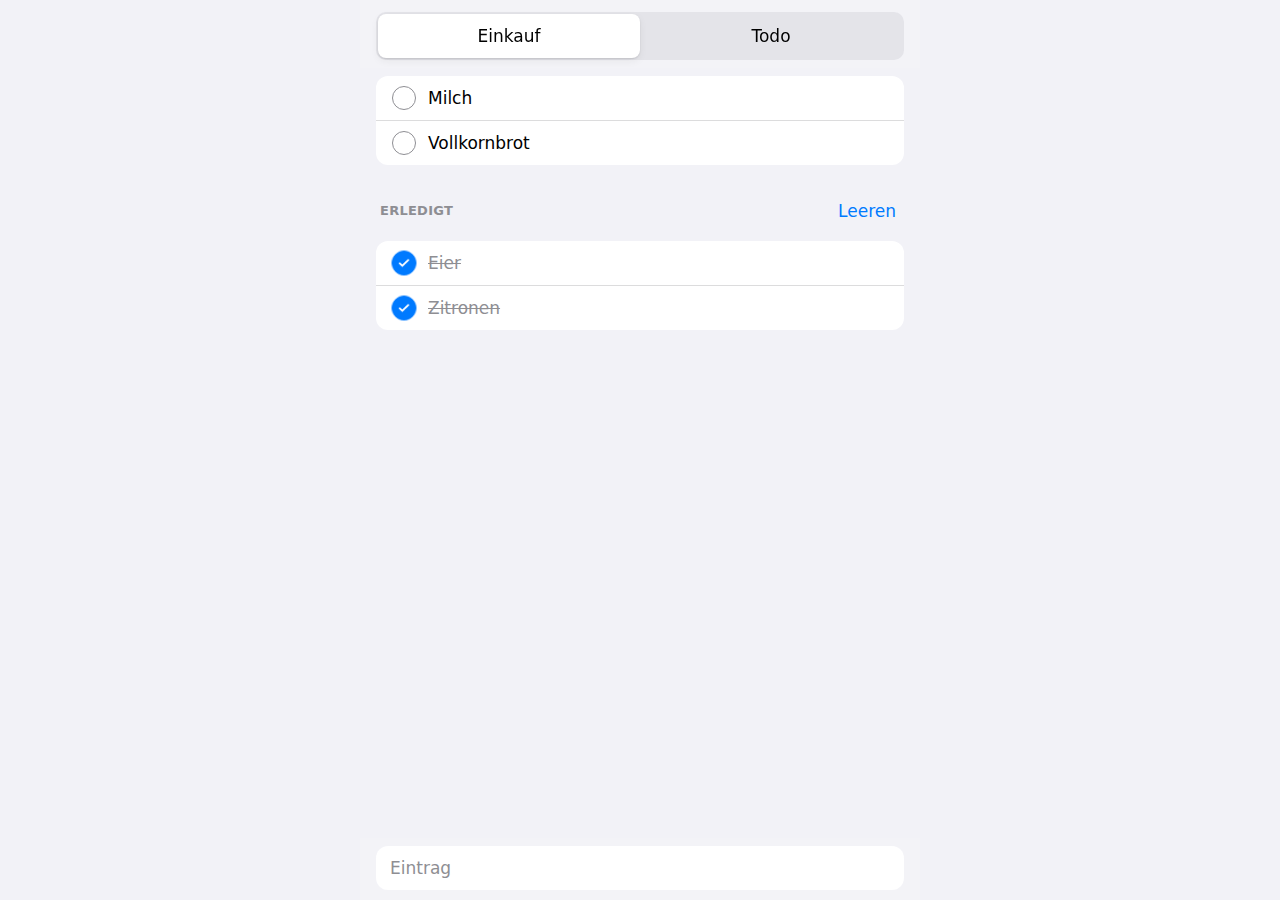
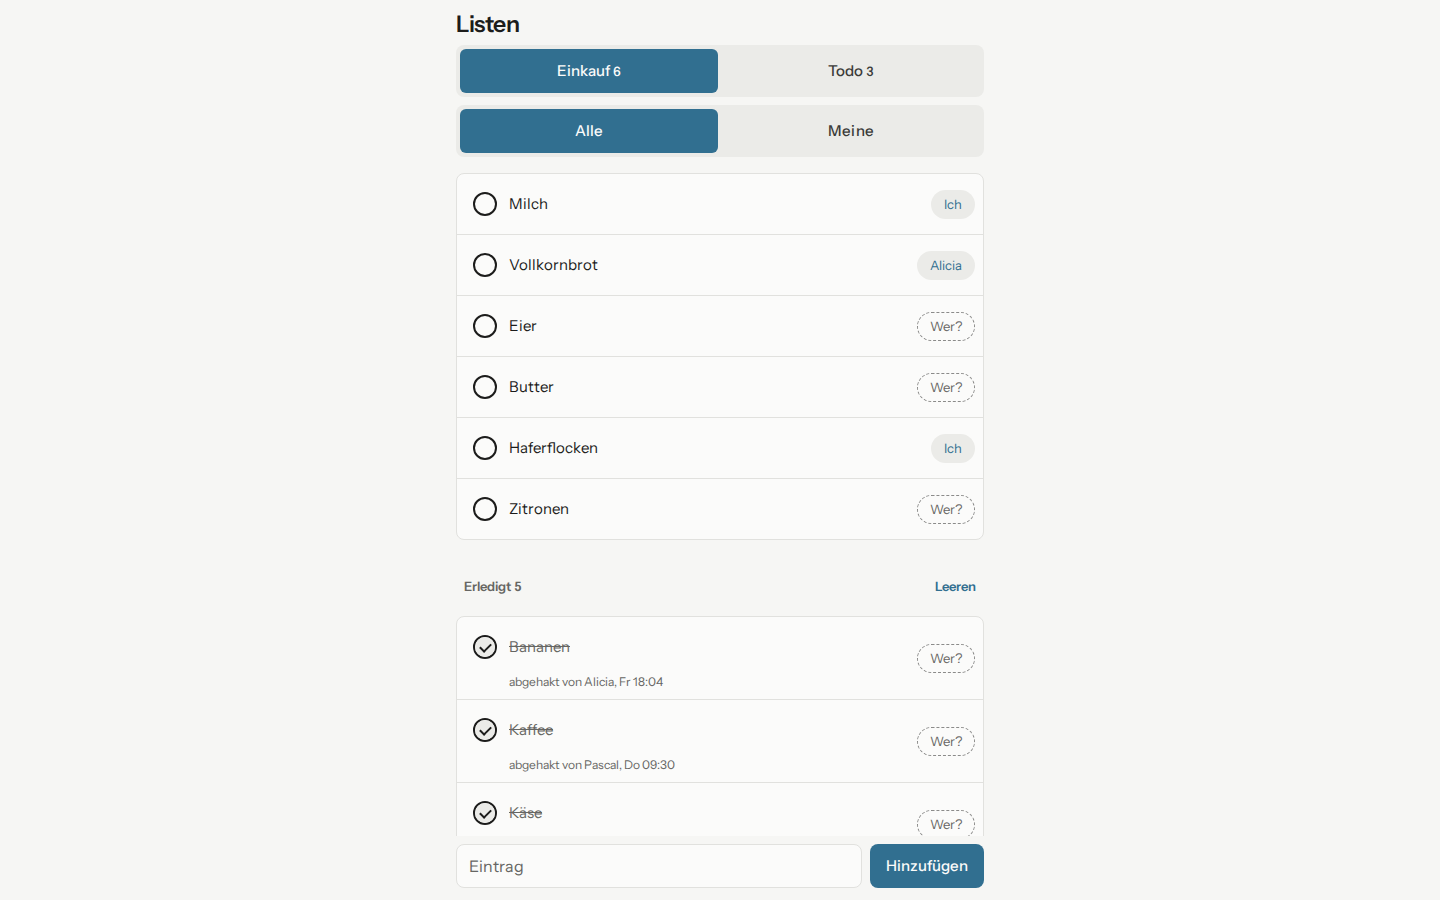
docs(lists): new pictures, the explanation of chips and who ticked, and the live copy check

diff --git a/frontend/tests/frame/lists-shots.test.tsx b/frontend/tests/frame/lists-shots.test.tsx
@@ -19,6 +19,8 @@ const SEED: Record<string, Seed[]> = {
     { text: "Bananen", done: true, ticked_by: "Alicia", ticked_at: "2026-10-23T16:04:00Z" },
     { text: "Kaffee", done: true, ticked_by: "Pascal", ticked_at: "2026-10-22T07:30:00Z" },
     { text: "Käse", done: true, ticked_at: "2026-10-21T19:10:00Z" },
+    { text: "Tee", done: true, ticked_by: "Alicia", ticked_at: "2026-10-20T12:45:00Z" },
+    { text: "Nudeln", done: true, ticked_by: "Pascal", ticked_at: "2026-10-19T18:20:00Z" },
   ],
   Todo: [
     { text: "Steuer abgeben", done: false, assignee: "[[Pascal]]" },
@@ -35,8 +37,8 @@ interface Look {
   dark?: boolean;
   touch?: boolean;
   reduced?: boolean;
-  /** What the picture shows past the first draw: a list switched, a menu open, a field focused. */
-  arrange?: () => void;
+  /** What the picture shows past the first draw: a list switched, a menu open, a field focused, a list scrolled. */
+  arrange?: (frame: HTMLElement) => void;
 }
 
 /** One picture: the app drawn as the look says, saved as `name`, its width checked. */
@@ -60,14 +62,29 @@ async function picture(name: string, look: Look): Promise<void> {
     reducedMotion: look.reduced ? "reduce" : "no-preference",
   });
   if (look.dark) document.documentElement.setAttribute("data-theme", "dark");
-  const { container, unmount } = render(<ListsApp />);
+  // The app scrolls inside a box the size of the screen, so the sticky bars stick to
+  // the picture's edges and the picture is the screen, not the whole list.
+  const { container, unmount } = render(
+    <div
+      style={{
+        position: "relative",
+        width: look.size.width,
+        height: look.size.height,
+        overflow: "auto",
+      }}
+    >
+      <ListsApp />
+    </div>,
+  );
+  const frame = container.firstElementChild as HTMLElement;
   try {
     await screen.findByRole("checkbox", { name: "Milch" });
-    look.arrange?.();
+    look.arrange?.(frame);
     // The lines and the menu arrive on a transition, so the picture waits for the end state.
     await Promise.all(document.getAnimations().map((animation) => animation.finished));
     await document.fonts.ready;
-    expect(await shot(container, name)).toBe(look.size.width);
+    expect(await shot(frame, name)).toBe(look.size.width);
+    expect(frame.getBoundingClientRect().height).toBe(look.size.height);
   } finally {
     unmount();
     document.documentElement.removeAttribute("data-theme");
@@ -95,9 +112,15 @@ const meine = {
   arrange: () => fireEvent.click(screen.getByRole("button", { name: "Meine" })),
 };
 const menu = { ...alle, arrange: () => fireEvent.click(chipOf("Eier")) };
+// Erledigt unfolds to all five, and the list is scrolled so its heading sits under the top bar.
 const done = {
   ...alle,
-  arrange: () => fireEvent.click(screen.getByRole("button", { name: /^Erledigt/ })),
+  arrange: (frame: HTMLElement) => {
+    fireEvent.click(screen.getByRole("button", { name: "Erledigt 5" }));
+    const heading = frame.querySelector<HTMLElement>(".done .group-head") as HTMLElement;
+    const bar = frame.querySelector<HTMLElement>(".top") as HTMLElement;
+    frame.scrollTop = heading.offsetTop - bar.offsetHeight;
+  },
 };
 const composer = {
   size: { width: 390, height: 500 },

diff --git a/frontend/src/styles/lists.css b/frontend/src/styles/lists.css
@@ -61,7 +61,7 @@ button:not(.words):active:not(:disabled) {
   display: grid;
   gap: var(--k-space-8);
   padding: calc(var(--k-space-12) + env(safe-area-inset-top)) var(--k-space-16) var(--k-space-8);
-  background: color-mix(in srgb, var(--k-bg) 88%, transparent);
+  background: var(--k-bg);
 }
 
 .top h1 {
@@ -395,7 +395,7 @@ button:not(.words):active:not(:disabled) {
   flex-direction: column;
   gap: var(--k-space-8);
   padding: var(--k-space-8) var(--k-space-16) calc(var(--k-space-12) + env(safe-area-inset-bottom));
-  background: color-mix(in srgb, var(--k-bg) 88%, transparent);
+  background: var(--k-bg);
 }
 
 .chips {

diff --git a/backend/tests/test_live_copy_share.py b/backend/tests/test_live_copy_share.py
@@ -1,0 +1,180 @@
+"""The live copy proof (#810 A11): what each list write does to every real list.
+
+Skipped unless `KASTEN_LIVE_COPY` (a read-only copy of the vault) and
+`KASTEN_LIVE_OUT` (a directory to write into) are both set. The lists are copied
+into a vault of this test's own, so the copy is never written. Every write runs on
+a fresh copy of its note, and each list's results land in one JSON file, so main
+and the branch can be compared with `diff -r`.
+"""
+
+import contextlib
+import itertools
+import json
+import os
+import re
+import shutil
+from collections.abc import Awaitable, Callable
+from datetime import date
+from pathlib import Path
+
+import pytest
+
+from kasten_backend import share
+from kasten_backend.config import Settings
+
+COPY = os.environ.get("KASTEN_LIVE_COPY", "")
+OUT = os.environ.get("KASTEN_LIVE_OUT", "")
+
+PEOPLE = {"pascal@example.test": "Pascal", "alicia@example.test": "Alicia"}
+TODAY = date.today().isoformat()
+COUNT = itertools.count()
+
+Step = Callable[[Settings, str], Awaitable[object]]
+
+
+def settings_for(root: Path) -> Settings:
+    """Settings for a vault at `root`, with the people when the setting exists."""
+    if "share_people" in Settings.model_fields:
+        return Settings(vault_path=root, share_people=PEOPLE)
+    return Settings(vault_path=root)
+
+
+def fresh(base: Path, name: str, raw: bytes) -> Settings:
+    """A vault of its own holding one list's note, exactly as read."""
+    root = base / f"case-{next(COUNT)}"
+    (root / "05 Shared").mkdir(parents=True)
+    (root / "05 Shared" / f"{name}.md").write_bytes(raw)
+    return settings_for(root)
+
+
+def note_text(settings: Settings, name: str) -> str:
+    """The note's text as it stands in the vault."""
+    return (settings.vault_path / settings.share_folder / f"{name}.md").read_bytes().decode("utf-8")
+
+
+def normal(text: str) -> str:
+    """The note with today's date, the kt id and the save time fixed, so two runs compare."""
+    text = text.replace(TODAY, "DATE")
+    text = re.sub(r"kt-[0-9a-f]{6}", "kt-xxxxxx", text)
+    return re.sub(r"^modified: [^\r\n]*", "modified: TIME", text, flags=re.MULTILINE)
+
+
+async def sha_of(settings: Settings, name: str) -> str:
+    """The digest of the list as the vault holds it now."""
+    current = await share.read(settings, name)
+    assert current is not None
+    assert current.sha is not None
+    return current.sha
+
+
+def tick(line: int, done: bool) -> Step:
+    """Tick or untick one line."""
+
+    async def step(settings: Settings, name: str) -> object:
+        return await share.tick(settings, name, line, done, await sha_of(settings, name))
+
+    return step
+
+
+def tick_all() -> Step:
+    """Tick every open item, one at a time, leaving the ones kasten refuses open."""
+
+    async def step(settings: Settings, name: str) -> object:
+        for item in share.items(note_text(settings, name)):
+            if not item.done:
+                with contextlib.suppress(share.TickInKastenError):
+                    await share.tick(settings, name, item.line, True, await sha_of(settings, name))
+        return None
+
+    return step
+
+
+def assign(line: int, who: str | None) -> Step:
+    """Assign one line to a person, or clear it with None."""
+
+    async def step(settings: Settings, name: str) -> object:
+        return await share.assign(settings, name, line, who, await sha_of(settings, name))
+
+    return step
+
+
+def add(text: str) -> Step:
+    """Append one item."""
+
+    async def step(settings: Settings, name: str) -> object:
+        return await share.add(settings, name, text, await sha_of(settings, name))
+
+    return step
+
+
+def clear() -> Step:
+    """Remove the ticked items, Leeren."""
+
+    async def step(settings: Settings, name: str) -> object:
+        return await share.clear(settings, name, await sha_of(settings, name))
+
+    return step
+
+
+async def outcome(base: Path, name: str, raw: bytes, *steps: Step) -> object:
+    """The note after the steps, run on a fresh copy, or the refusal a tick met."""
+    settings = fresh(base, name, raw)
+    try:
+        for step in steps:
+            await step(settings, name)
+    except share.TickInKastenError as error:
+        return {"refused": str(error)}
+    return normal(note_text(settings, name))
+
+
+@pytest.mark.skipif(not (COPY and OUT), reason="KASTEN_LIVE_COPY and KASTEN_LIVE_OUT are not set")
+async def test_live_copy_every_list_write(tmp_path: Path) -> None:
+    shared = tmp_path / "vault" / "05 Shared"
+    shared.mkdir(parents=True)
+    for note in sorted((Path(COPY) / "05 Shared").iterdir()):
+        if note.is_file() and note.suffix == ".md":
+            shutil.copy2(note, shared / note.name)
+
+    settings = settings_for(tmp_path / "vault")
+    out = Path(OUT)
+    base = tmp_path / "cases"
+    has_assign = hasattr(share, "assign")
+
+    for name in share.names(settings):
+        raw = (shared / f"{name}.md").read_bytes()
+        text = raw.decode("utf-8")
+        items = share.items(text)
+        plan: dict[str, list[Step]] = {
+            "add Testeintrag": [add("Testeintrag")],
+            "clear after every item ticked": [tick_all(), clear()],
+        }
+        for item in items:
+            label = f"L{item.line}"
+            plan[f"{label} tick"] = [tick(item.line, True)]
+            plan[f"{label} tick untick"] = [tick(item.line, True), tick(item.line, False)]
+            if has_assign:
+                plan[f"{label} assign Pascal"] = [assign(item.line, "Pascal")]
+                plan[f"{label} assign Alicia"] = [assign(item.line, "Alicia")]
+                plan[f"{label} assign Pascal then Alicia"] = [
+                    assign(item.line, "Pascal"),
+                    assign(item.line, "Alicia"),
+                ]
+                plan[f"{label} assign Pascal then None"] = [
+                    assign(item.line, "Pascal"),
+                    assign(item.line, None),
+                ]
+
+        cases: dict[str, object] = {}
+        for label, steps in plan.items():
+            cases[label] = await outcome(base, name, raw, *steps)
+        record = {
+            "lines": len(text.split("\n")),
+            "open": sum(not item.done for item in items),
+            "done": sum(item.done for item in items),
+            "items": [item.model_dump() for item in items],
+            "cases": cases,
+        }
+        (out / f"{name}.json").write_text(
+            json.dumps(record, ensure_ascii=False, indent=1, sort_keys=True) + "\n",
+            encoding="utf-8",
+        )

diff --git a/docs/explanation/shared-lists.md b/docs/explanation/shared-lists.md
@@ -1,7 +1,7 @@
 ---
 type: Explanation
 title: Shared lists
-description: Why the shared shopping and todo lists are plain lines in two vault notes, why a second gate and a /share prefix stand in front of them rather than a second user, what the second person can reach, and how a conflict, a live update, an offline change and Clear behave.
+description: Why the shared shopping and todo lists are plain lines in two vault notes, how an item is given to a person and who ticked it, why a second gate and a /share prefix stand in front of them rather than a second user, what the second person can reach, and how a conflict, a live update, an offline change, Alle and Meine, the look and Clear behave.
 tags: [share, lists, security, todo]
 status: stable
 ---
@@ -37,7 +37,62 @@ The app shows an item's words only. The fields kasten adds, such as the
 recurrence `🔁`, the waiting `👤` and the dates, and a block id at the end of
 the line are left out of the words. An item's assignee, the `👤 [[name]]` on
 its line, comes through the share routes as the `assignee` field of each item.
-The app does not draw it yet.
+
+The app draws it as a chip at the right of the row. The chip reads `Wer?` when
+nobody is set, `Ich` when the item is for you, and the name otherwise. A tap
+opens a small menu of the people, then Niemand. A pick writes `👤 [[Name]]` on
+the line, and Niemand takes the `👤` off. The chip shows the pick at once, and a
+refused pick shows the server's words. The line names the person by a link to
+their note, not by a bare name, so [the person card](/explanation/people-in-the-vault.md)
+lists the item the same way it lists any todo that links them.
+
+## Who ticked
+
+A done line names nobody. The line stays the todo line that the board and
+Obsidian read, with no extra field for a person. The history records each save
+instead. A write through the share routes names its person there: the gate sends
+the signed-in address as `X-Auth-Request-Email`,
+[`KASTEN_SHARE_PEOPLE`](/reference/configuration.md) maps it to a name, and the
+save is recorded under `share:<name>`. When the server lists a done item, it reads
+`jj evolog` for the latest change that ticked that line, and takes the writer and
+the commit time from it. The app shows what it is given, so a tick by Alicia reads
+`abgehakt von Alicia, Mo 18:04`.
+
+Two cases show less. A tick made in kasten has a time but no name, so the line
+reads `abgehakt Mo 18:04`. A write with no mapped address is recorded as
+`share`, and shows the same way, with no name. The history read never writes to
+the repository. If it fails, or the repository is missing, the item keeps its
+tick and the line under it stays blank.
+
+## Alle and Meine
+
+Alle shows every item in the list. Meine shows the open items for you and the
+ones for nobody. An item for Alicia stays out of your view, and an item nobody
+has taken stays in it, so nothing open drops out of sight. This is the issue's
+default. The filter applies to Erledigt too. The counts in the list switch still
+count every open item in the list, whatever filter is chosen.
+
+## How it looks
+
+The lists page draws with the tokens of the main app, so its colours, type and
+spacing match the rest of kasten. It is light by default and follows the phone's
+colour scheme, changing when the phone does. It does not read the choice made in
+the main app, which is stored under the main host's address and is not this
+page's to read. The page keeps the default accent and does not pick a palette.
+
+![The Einkauf list on a phone, with Alle selected](/assets/shared-lists/lists-phone-alle-light.png)
+
+The menu opened from a chip that says Wer?:
+
+![The chip menu of the Einkauf list on a phone](/assets/shared-lists/lists-phone-menu-light.png)
+
+Erledigt with its ticks and their lines, in the dark scheme:
+
+![The done items of the Einkauf list on a phone, in the dark scheme](/assets/shared-lists/lists-phone-done-dark.png)
+
+The same list on a desktop:
+
+![The Einkauf list on a desktop](/assets/shared-lists/lists-desktop-light.png)
 
 ## Why a second gate, not a second user
 
@@ -71,7 +126,7 @@ behind a gate that admits two people.
 
 Through the share host, the person reaches:
 
-* six routes under `/share/`, which read and write the notes in `05 Shared`
+* eight routes under `/share/`, which read and write the notes in `05 Shared`
   and nothing else
 * the app's own pages and files
 
@@ -123,7 +178,7 @@ them back.
 
 ## Related
 
-* [HTTP API: shared lists](/reference/http-api/shared-lists.md): the six routes, with what each takes and answers
+* [HTTP API: shared lists](/reference/http-api/shared-lists.md): the eight routes, with what each takes and answers
 * [Reverse-proxy routes](/reference/reverse-proxy-routes.md): the share host's table and its checks
 * [Security model](/explanation/security-model.md): the second edge and the rest of the gate
 * [The agent boundary](/explanation/the-agent-boundary.md): the other route into the vault, and how it is held
